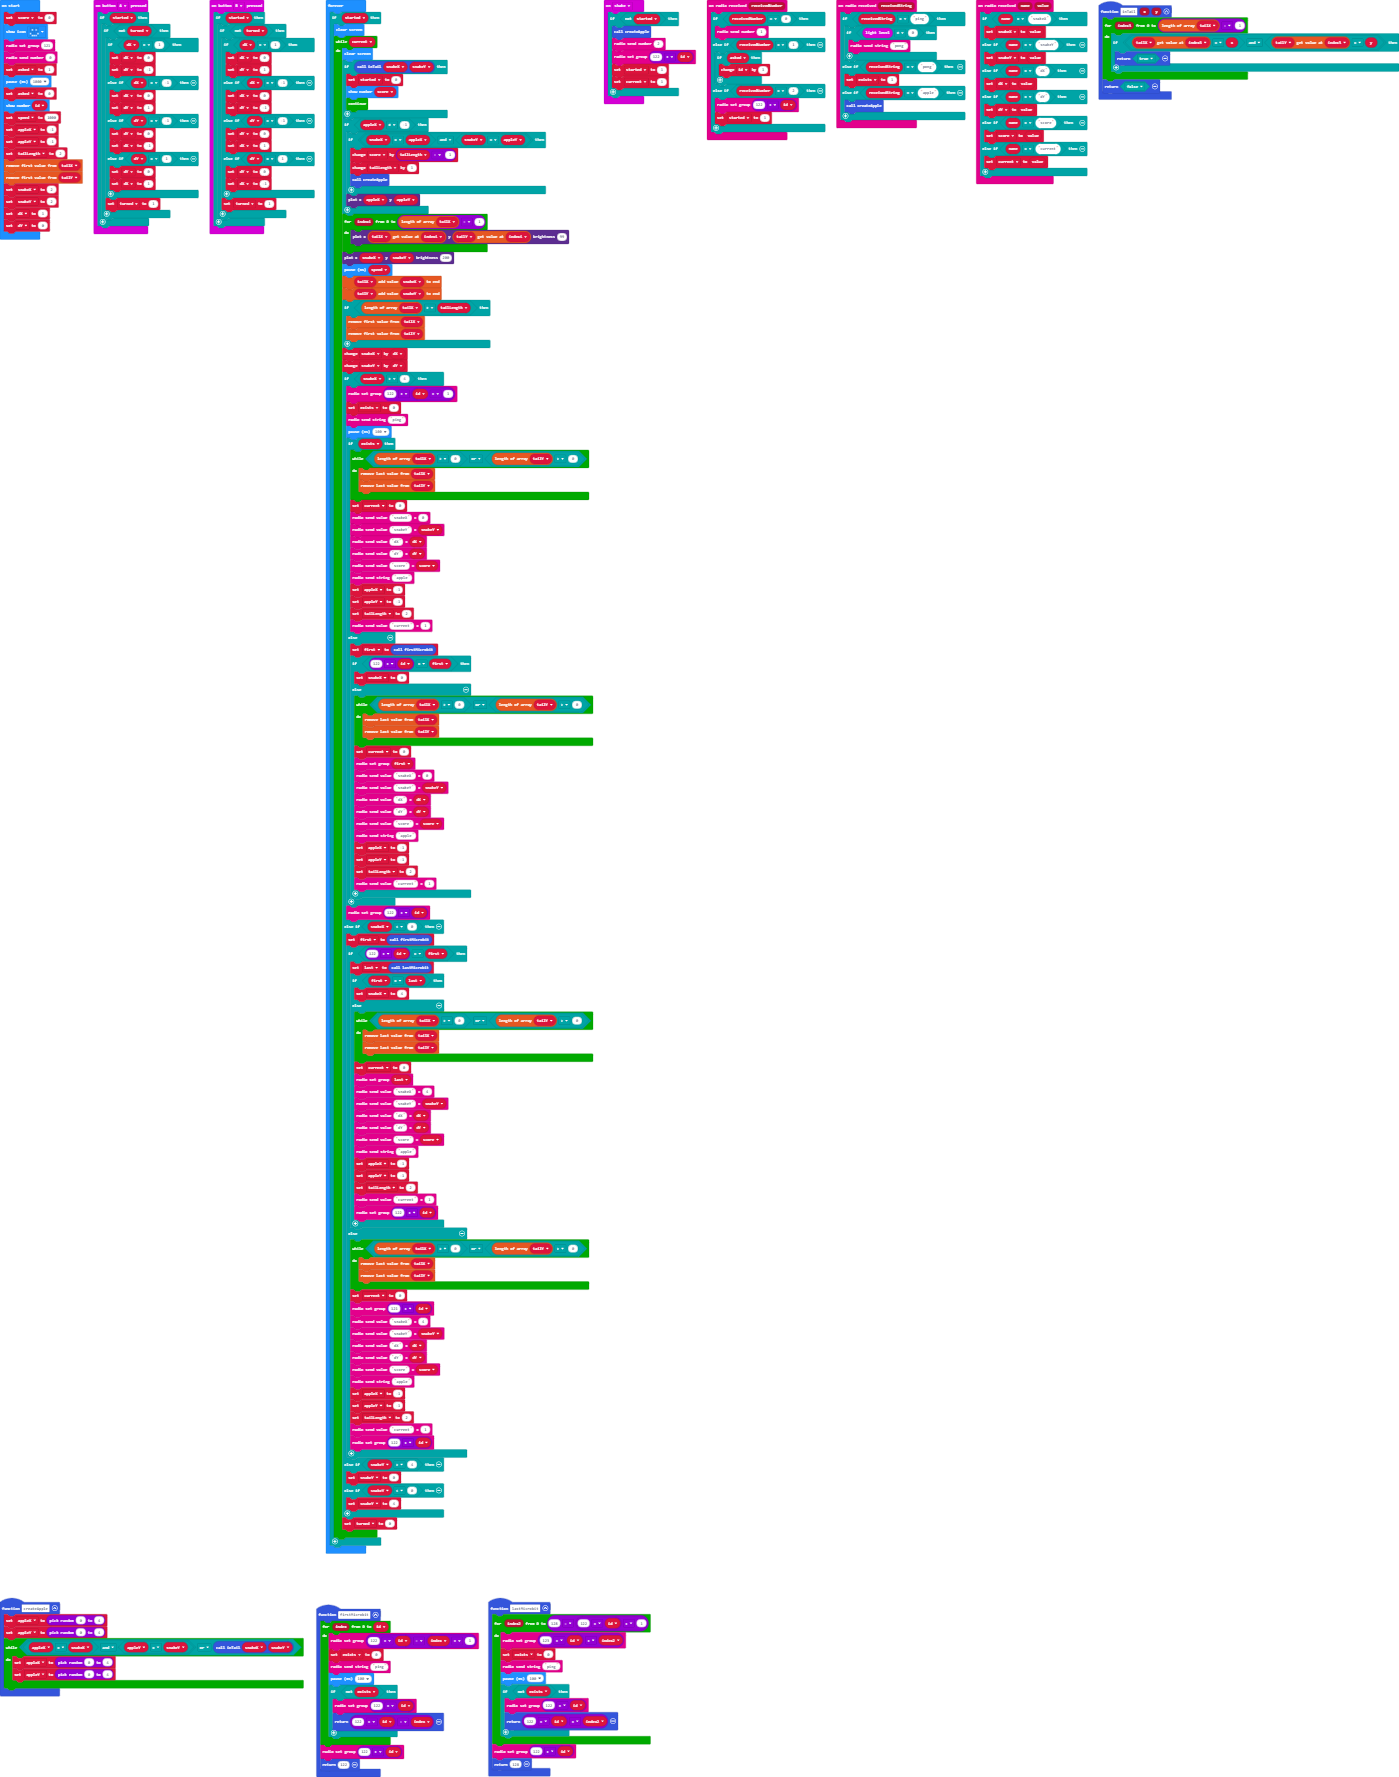
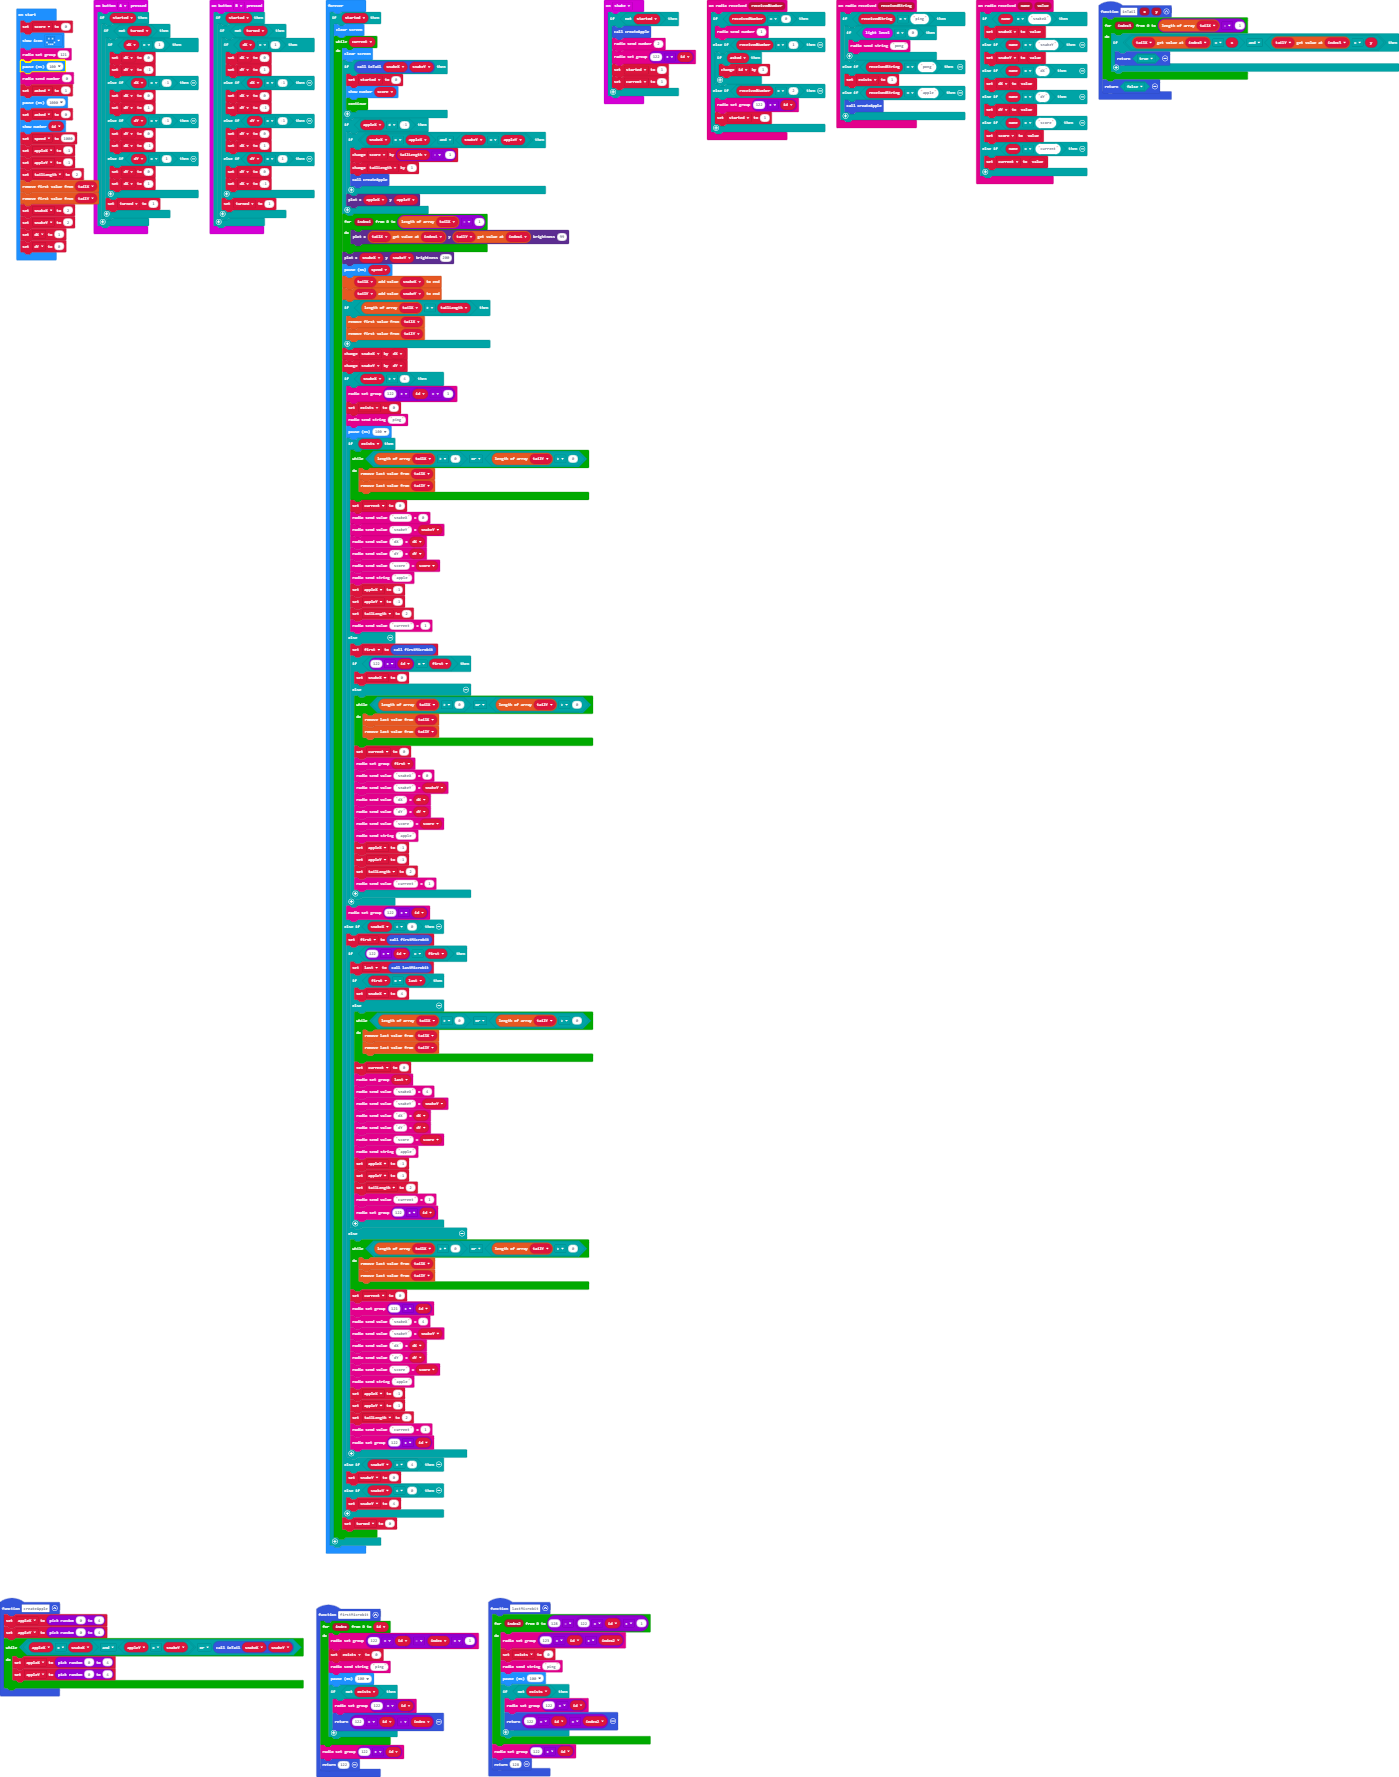
short pause after first set group

Changed region(s): [[0.0, 0.0, 0.0922, 0.1548]]

diff --git a/main.ts b/main.ts
@@ -153,6 +153,7 @@ let score = 0
 score = 0
 basic.showIcon(IconNames.Happy)
 radio.setGroup(121)
+basic.pause(100)
 radio.sendNumber(0)
 asked = 1
 basic.pause(1000)
